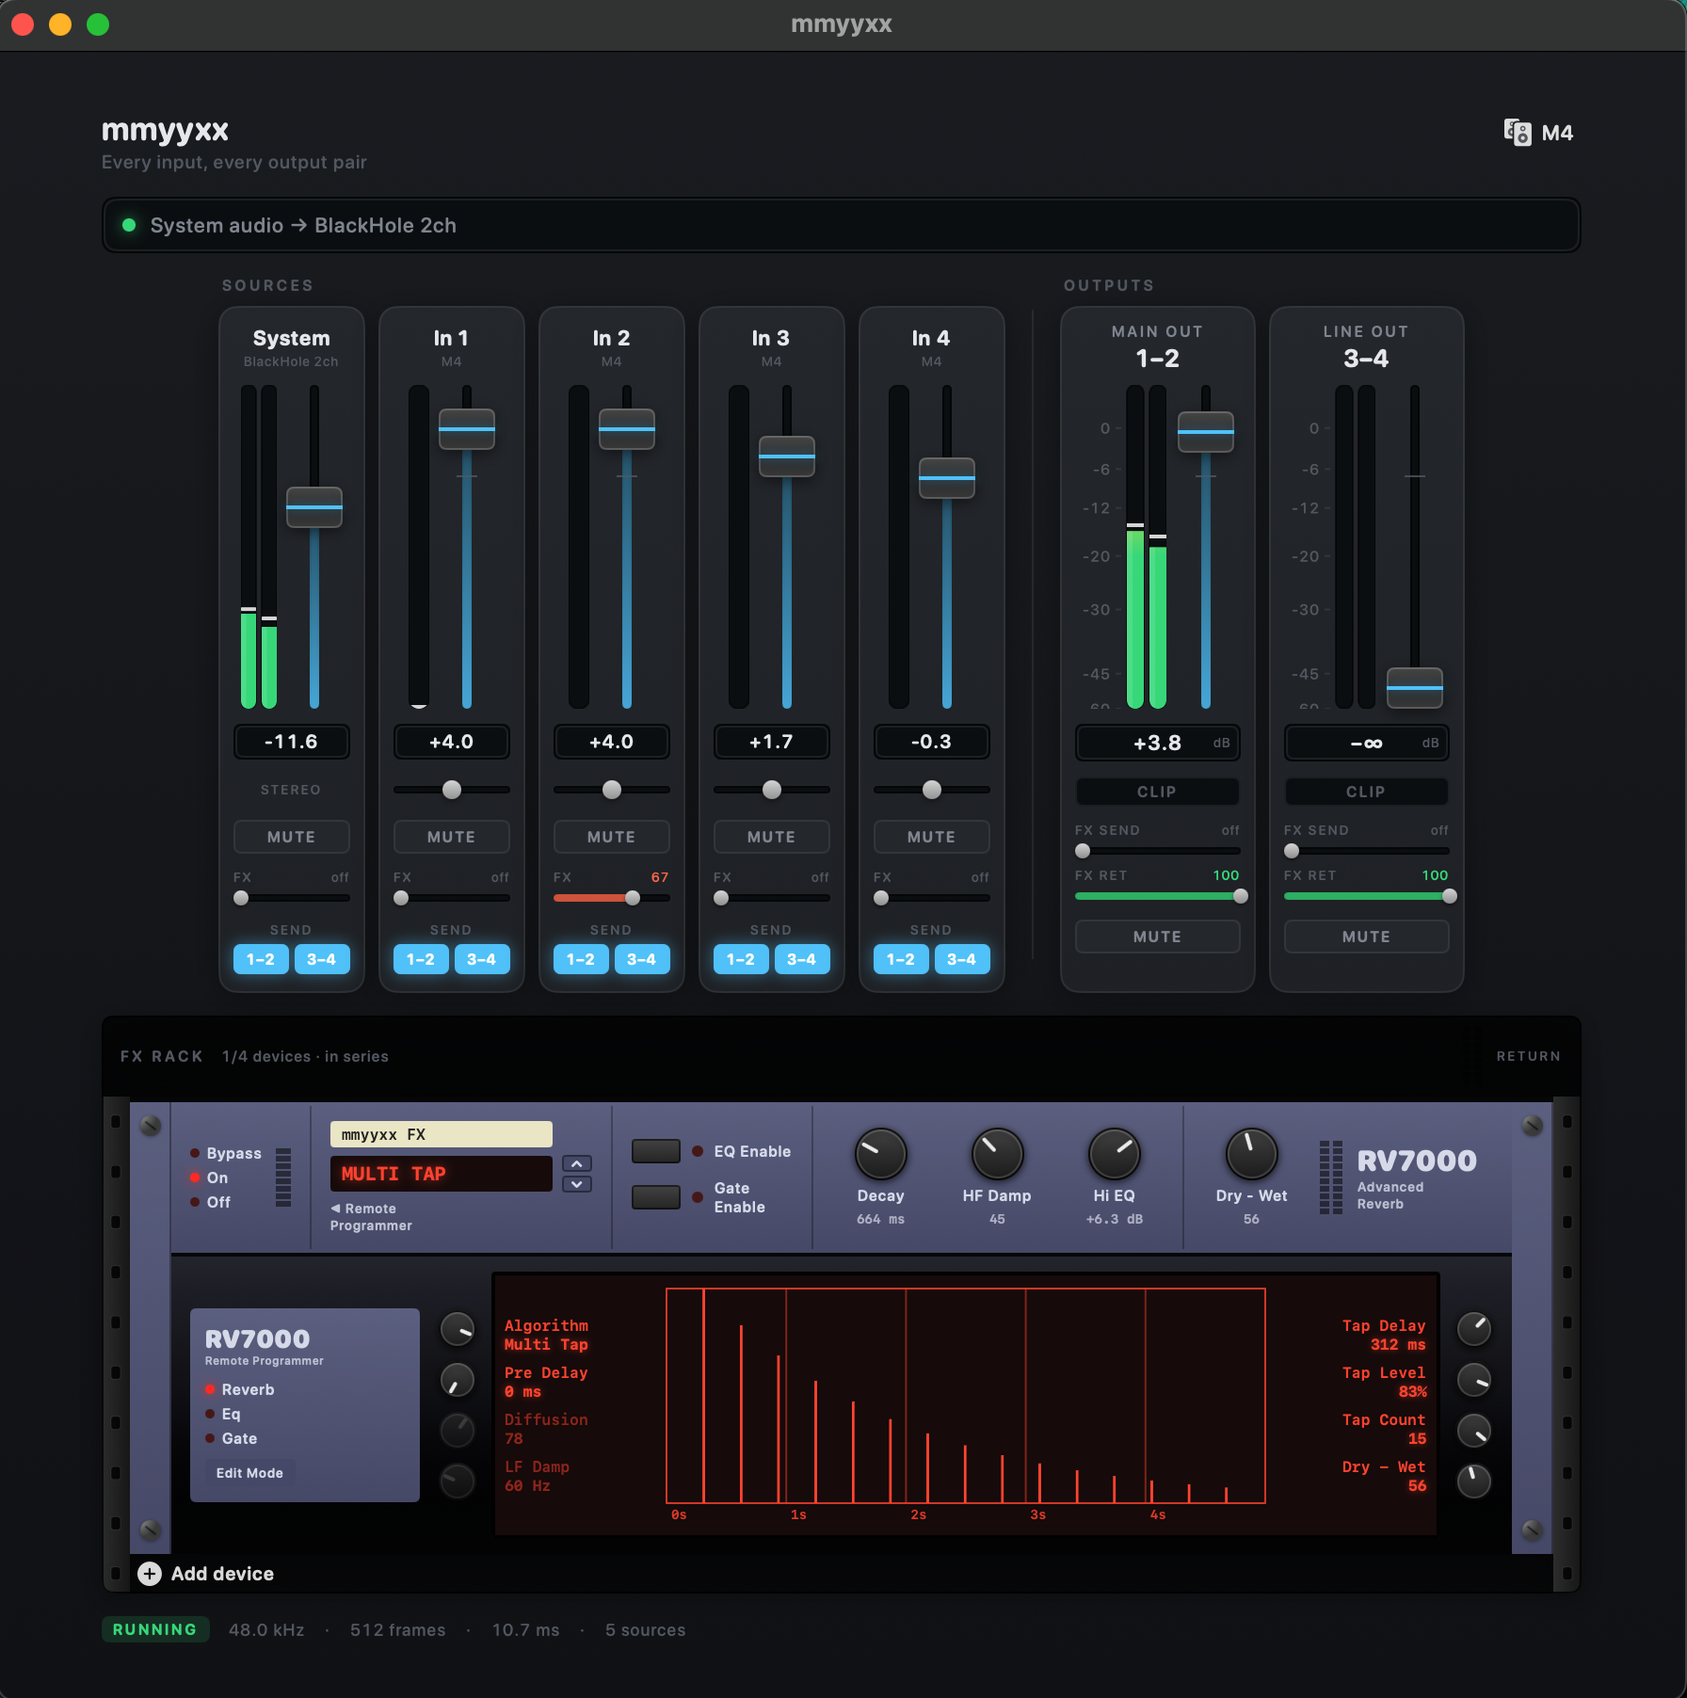
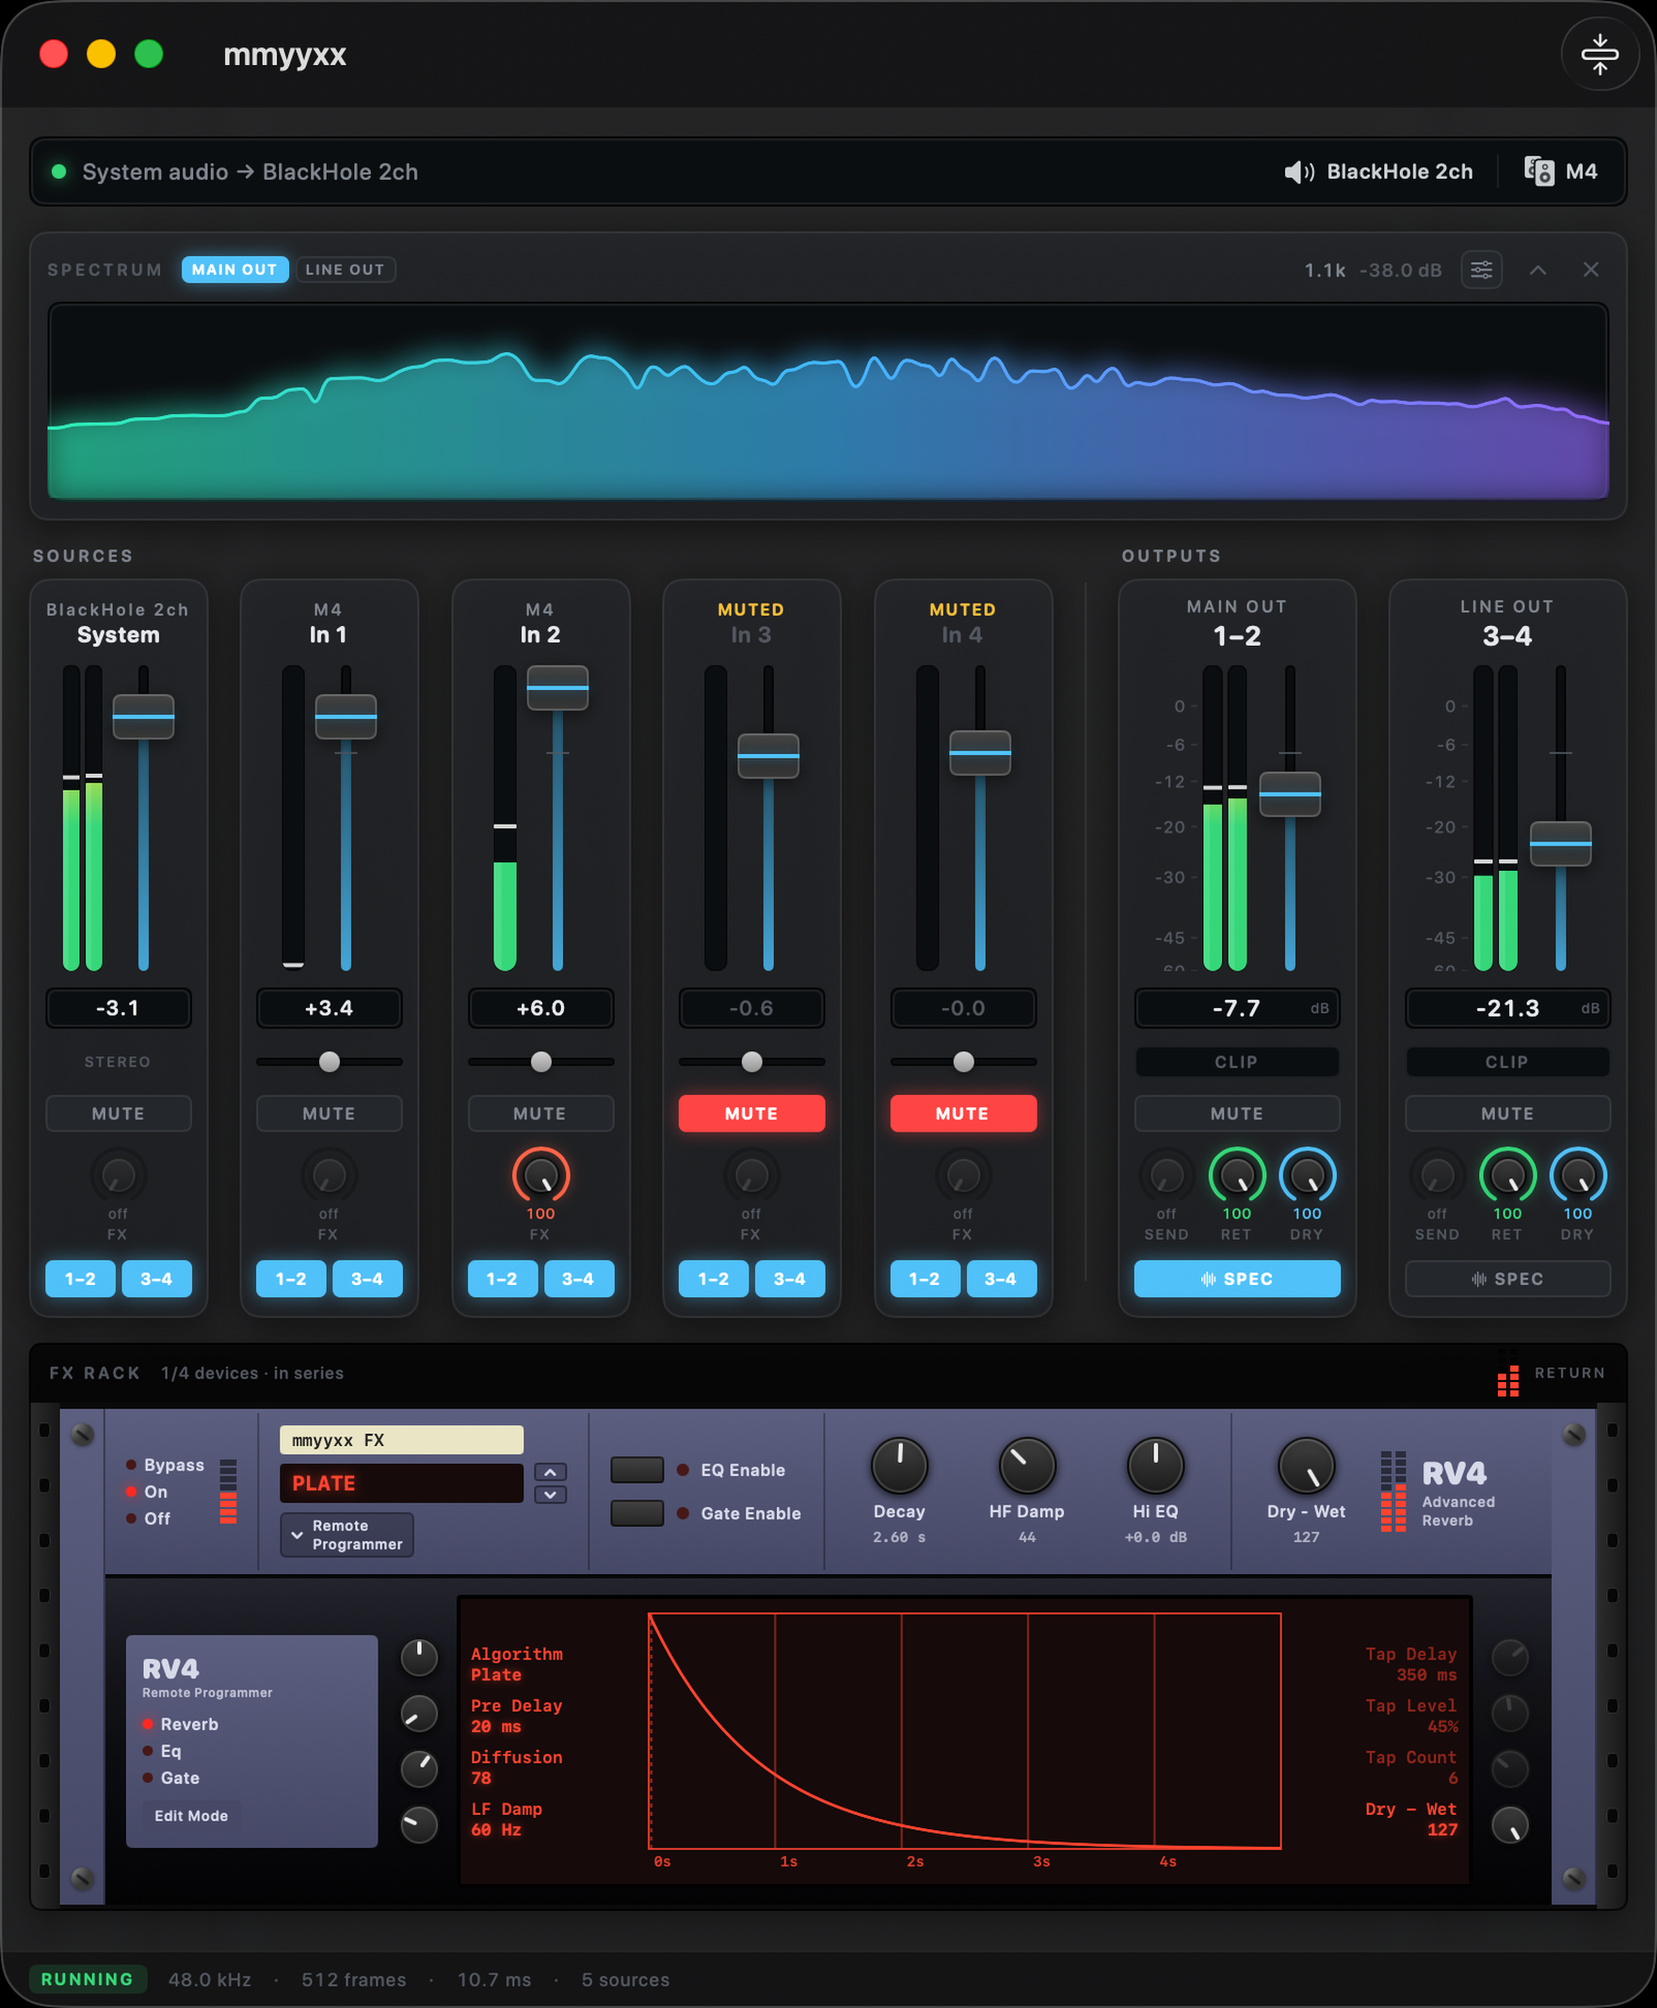
Bring the README up to the app as it stands
It still described an app with one reverb in the rack, an ad-hoc signature
and a quarantine flag to strip by hand, and it called the reverb RV7000.

Documents the analyser in both its forms, the EQ, the safety mute and the
interface mute the engine now claims, the DRY control and what it is for,
the output picker, and the packaging path from a Developer ID through
notarisation to a stapled disk image. The screenshot is retaken with the
analyser open.

The channel-offset trap that caused the reconnect feedback loop is written
down beside the other things that bite, since it is the kind of thing that
looks like a hardware fault rather than a layout bug.

Claude-Session: https://claude.ai/code/session_01CKWtTZLDbHARm1nDuWcKvr

diff --git a/README.md b/README.md
@@ -8,11 +8,10 @@ and each strip can be sent to either output pair independently.
 Built for a MOTU M4 (Main Out 1–2, Line Out 3–4, four analog inputs), but any
 interface with four or more outputs appears in the device menu.
 
-<img src="docs/mmyyxx.png" alt="mmyyxx: five source strips and two output pairs above a 19-inch FX rack holding an RV7000 reverb" width="880">
+<img src="docs/mmyyxx.png" alt="mmyyxx: a spectrum analyser over five source strips and two output pairs, above a 19-inch FX rack holding an RV4 reverb" width="880">
 
-Five input strips feed two output pairs, and both can send to the rack below.
-The RV7000 here is running Multi Tap, which is why the display is drawing 15
-discrete taps rather than a decay envelope.
+A spectrum analyser across the top, five input strips feeding two output pairs,
+and a rack below that either can send to. The RV4 here is running Plate.
 
 ## Why this is needed
 
@@ -49,11 +48,11 @@ In 1–4 at 0–3 and system audio at 8–9.
 
 ```
 sources ──(fx send, post-fader)──┐
-                                 ├──▶ FX bus ──▶ RV7000 ──▶ return ──┐
-pair bus ──(fx send)─────────────┘        (tapped pre-return)        │
-    │                                                                │
-    └────────────────────────────────┬───────────────────────────────┘
-                                     └──▶ pair fader ──▶ output
+                                 ├──▶ FX bus ──▶ rack ──▶ return ──┐
+pair bus ──(fx send)─────────────┘      (tapped pre-return)        │
+    │                                                              │
+    └──(dry)──────────────────────────┬───────────────────────────-┘
+                                      └──▶ pair fader ──▶ output
 ```
 
 The render callback runs in passes:
@@ -64,10 +63,17 @@ The render callback runs in passes:
 2. Each output pair can also feed the FX bus. That tap happens **before** the
    return is summed back in, which is what stops a pair that both sends to and
    receives from the reverb from closing a feedback loop.
-3. Each output pair applies its master fader and meters **post-fader**, so the
-   output strips show what is actually leaving the interface.
+3. Each output pair scales its own signal by its **DRY** amount, sums the return,
+   applies its master fader and meters **post-fader**, so the output strips show
+   what is actually leaving the interface.
 
 FX sends default to zero, so nothing is heard until a send is raised.
+
+DRY defaults to full, which makes the rack a parallel send: right for a reverb,
+wrong for an EQ, since half the signal would bypass it and an EQ move would land
+at half strength. Take DRY to zero with the send up and the rack becomes an
+insert on that output instead. The dry path is only thinned when something is
+actually coming back, so a bypassed rack cannot silence an output.
 
 Gain smoothing advances once per frame regardless of how many pairs a source
 feeds, so slew rate does not depend on routing.
@@ -83,6 +89,17 @@ fader moves slew over ~20 ms so they do not zipper.
 sending to the interface, which is exactly what this app writes, so routing one
 into the mix would close a feedback loop. Sources whose driver-supplied channel
 name contains "loopback" are filtered out.
+
+**A reconnecting interface can hand back a short channel layout.** An interface
+that has just enumerated over USB will advertise four outputs while contributing
+fewer channels to the aggregate. Every channel index after the short sub-device
+shifts, which puts what the app calls Main Out on the loopback device's outputs
+instead — and that comes straight back in as system audio and rings.
+
+The engine refuses to start until the interface contributes its full channel
+count, retrying while it settles, and the render callback never writes outside
+the interface's own range. The safety mute covers the same window from the other
+side by holding the outputs silent until playback is real.
 
 **Output volume is claimed and held at unity.** Interfaces typically expose a
 software volume control only on their "preferred stereo pair", because that is
@@ -140,6 +157,10 @@ above its original level, so it cannot clip.
 Hold Option-Shift with the volume keys for quarter steps if you want finer
 control still.
 
+The interface's per-channel **mute** is claimed the same way and restored on
+exit, for the same reason: the M4 carries one only on channels 1–2, so a mute
+from the keyboard leaves that pair dead while 3–4 keep playing.
+
 > A force-quit still leaves the controls at unity until the next clean exit, but
 > the levels to restore survive it.
 
@@ -154,20 +175,14 @@ reboot.
 
 ## Install
 
-A built app is attached to each [release](https://github.com/sqratchsix/mmyyxx-audio-router/releases).
-It is **Apple silicon only** and **ad-hoc signed**, not notarized, so macOS
-quarantines it on download and refuses to open it with a double-click. Strip the
-quarantine flag after unzipping:
+A signed disk image is at **[xselement.com/downloads/mmyyxx.dmg](https://xselement.com/downloads/mmyyxx.dmg)**,
+and is attached to each [release](https://github.com/sqratchsix/mmyyxx-audio-router/releases).
+It is **Apple silicon only**. The image and the app inside it are signed with a
+Developer ID, notarized, and the ticket is stapled to the image, so it opens on a
+machine that has never seen it and works offline. Drag it to Applications and
+double-click; there is no quarantine dance.
 
-```sh
-xattr -dr com.apple.quarantine /Applications/mmyyxx.app
-open /Applications/mmyyxx.app
-```
-
-Right-click the app and choose **Open** works too. Notarizing properly needs a
-paid Apple Developer ID, which this project does not have.
-
-BlackHole has to be installed separately, see Requirements below. The app detects
+BlackHole has to be installed separately, see Requirements above. The app detects
 when it is missing and shows the command.
 
 ## Build and run
@@ -177,8 +192,28 @@ when it is missing and shows the command.
 open build/mmyyxx.app
 ```
 
-`./build.sh debug` for a debug build. The bundle is ad-hoc signed so macOS
-remembers the audio-input permission between launches.
+`./build.sh debug` for a debug build.
+
+The bundle is signed so macOS remembers the audio-input permission between
+launches. A Developer ID Application identity is used when one is installed,
+otherwise the signature is ad-hoc, which is enough locally but cannot travel.
+Override with `MMYYXX_SIGN_IDENTITY`, or set it to `-` to force ad-hoc.
+
+```sh
+./build.sh release --dmg        # also package build/mmyyxx-<version>.dmg
+./build.sh release --notarize   # ...and notarize it, then staple the ticket
+```
+
+Notarizing needs credentials stored once, with the profile named `mmyyxx`
+(or set `MMYYXX_NOTARY_PROFILE`):
+
+```sh
+xcrun notarytool store-credentials mmyyxx --apple-id <id> --team-id <team>
+```
+
+The disk image keeps one stable name so published links keep working, and takes
+its version from `CFBundleShortVersionString`. Bump that in `Bundle/Info.plist`
+before packaging a new release.
 
 There is no Xcode project file. The package builds with Command Line Tools alone;
 Xcode 16.4 can open `Package.swift` directly if you want previews and Instruments.
@@ -203,6 +238,26 @@ The icon is generated rather than checked in as an opaque asset:
 Hardware inputs start muted and at −∞, so plugging in a live microphone never
 surprises anyone through the speakers. Unmute and raise the fader to use one.
 
+The output device can be chosen from the bar at the top of the window, so
+switching what macOS is playing through does not mean a trip to System Settings.
+
+### The safety mute
+
+The outputs are held silent when the engine starts and open when system audio is
+genuinely playing, which is what the amber **Held silent** pill in the bar means.
+**Open now** releases it by hand, and the device menu has a switch to turn the
+behaviour off.
+
+It exists because an interface that has just been plugged back in can carry a
+channel layout that is briefly wrong, and an open microphone plus a wrong layout
+is a feedback loop through the monitors. The hold covers that window.
+
+The engine also clears the interface's own per-channel mute while it runs and
+puts it back on exit. Muting from the keyboard while the interface is the system
+output leaves its preferred pair dead and the others playing — from inside the
+app that looks like a broken output rather than a muted one, with faders moving,
+meters reading level and nothing coming out.
+
 ## Controls
 
 | Control | Behaviour |
@@ -211,6 +266,9 @@ surprises anyone through the speakers. Unmute and raise the fader to use one.
 | Pan | Constant-power, with a centre detent. Mono sources only. Double-click recentres. |
 | SEND 1–2 / 3–4 | Which output pairs this source feeds. |
 | MUTE | Per source and per output pair. |
+| FX | Post-fader send into the rack, so muting a channel takes its reverb with it. |
+| SEND / RET / DRY | Per output pair: level into the rack, level back, and how much of the pair's own signal survives alongside it. |
+| SPEC | Sends this pair to the analyser above the sources. |
 | CLIP | Latches while a pair's post-fader peak hold sits at 0 dBFS. |
 
 ## The rack
@@ -221,15 +279,19 @@ never stretch, so a 1U panel stays 1U at any window size.
 
 | Device | Height | |
 |---|---|---|
-| RV7000 Advanced Reverb | 3U | main panel plus Remote Programmer |
+| RV4 Advanced Reverb | 3U, folds to 1U | main panel plus Remote Programmer |
 | DL1 Delay Line | 1U | stereo delay, damped feedback, ping-pong |
+| EQ5 Parametric EQ | 3U, folds to 1U | five bands, presets, response curve |
+| SA1 Spectrum Analyser | 3U, folds to 1U | reads the bus where it is mounted |
 
 Each device is fastened by full-height mounting ears with a screw top and bottom,
 and the rack is exactly as tall as what is mounted in it. The window's minimum
 width is the rack's, because a 19-inch rack that has to squeeze is not a 19-inch
 rack; below that the window scrolls rather than clipping.
 
-Hover a device for its power, reorder and remove controls. Each slot owns both a
+Hover a device for its power, reorder and remove controls, and hover the rack's
+header for **Add device**. A collapsible device folds to 1U with the button under
+its name, which is how four devices fit on a screen at once. Each slot owns both a
 reverb and a delay from the moment the app starts: adding a device at runtime
 must never make the audio thread allocate a delay line, so the units are pooled
 and a slot simply uses whichever its current kind calls for. Changing a slot's
@@ -240,10 +302,48 @@ It is a fixed-capacity plain-old-data struct, so copying it is a memcpy; an arra
 would retain and release a heap buffer, and dropping the last reference would
 call `free` on the audio thread.
 
+## The analyser
+
+A spectrum analyser appears twice, from one piece of DSP.
+
+Above the sources is a panel fed by the **SPEC** buttons on the output strips:
+what it draws is the post-fader mono sum of whichever pairs are sending, which is
+what the speakers are actually getting. Double-click its header to fold it to a
+single line with the trace still running.
+
+In the rack, **SA1** is an insert like anything else in the chain and reads the
+FX bus *where it is mounted*: ahead of the RV4 it shows the dry send, behind it
+the tail. Two of them read their own points in the chain.
+
+The render thread writes into a lock-free ring and the FFT runs on the UI thread,
+Hann-windowed, so the audio thread never does a transform. Calibration was
+checked against synthesised sines: a full-scale tone reads 0 dBFS within the
+scalloping loss a Hann window costs. Tilt is applied to signal only — adding it
+to the silence floor lifts digital silence into view as a phantom ramp climbing
+toward 20 kHz.
+
+Everything about it is adjustable: FFT size, band count, attack and release,
+tilt, floor and ceiling, refresh rate, peak hold, and five drawing styles across
+six palettes.
+
+## The EQ
+
+**EQ5** is five bands — low shelf, three bells, high shelf — with presets that
+write the bands and then get out of the way. Move any control afterwards and the
+preset reads *Custom*; **Reset bands** returns it to flat.
+
+The response curve is drawn from the same biquad coefficients the audio runs
+through rather than an approximation of them, so what is on screen is the filter.
+Folded to 1U the curve scales itself to what the EQ is doing, since a working
+±5 dB move on a fixed ±18 dB scale is a straight line.
+
+Coefficients are rebuilt only when a value actually moves, which keeps the
+trigonometry off the per-buffer path while a curve sits still.
+
 ## The reverb
 
-Modelled on Reason's RV7000: a main panel with the headline controls and a
-Remote Programmer below carrying the rest on a red LCD.
+**RV4** is modelled on Reason's RV7000: a main panel with the headline controls
+and a Remote Programmer below carrying the rest on a red LCD.
 
 Six of the algorithms are a feedback delay network — eight delay lines with
 mutually non-harmonic lengths, a four-stage allpass diffuser on the input, and a
@@ -315,9 +415,9 @@ The device menu has **Reset mix to defaults** and **Reveal settings file**.
 ## Layout
 
 ```
-Sources/Audio/   CoreAudio layer: device discovery, aggregate device, mixer callback, level math
-Sources/UI/      SwiftUI views: meters, faders, channel strips, theme
-Sources/App/     App entry point and the observable model bridging UI to engine
+Sources/Audio/   CoreAudio layer: device discovery, aggregate device, mixer callback, DSP, level math
+Sources/UI/      SwiftUI views: meters, faders, channel strips, rack devices, theme
+Sources/App/     App entry point, the observable model bridging UI to engine, and the analyser
 Bundle/          Info.plist and entitlements consumed by build.sh
 Tools/           Icon generator
 ```
@@ -329,8 +429,11 @@ with gain, pan, mute and per-pair sends; two output pairs with master faders,
 mutes and clip indicators; peak metering with hold throughout; device selection;
 system-output routing with restore on quit.
 
-Also working: the full mix persists across launches and across device
-reconnects.
+Also working: a rack of up to four devices in series — reverb, delay, EQ and
+analyser — with each output pair able to run it as a send or as an insert; a
+spectrum analyser both above the mix and in the rack; the output device chosen
+from the window; and a safety mute that holds the outputs down until playback is
+real. The full mix persists across launches and across device reconnects.
 
 Not done yet: buffer size is whatever the aggregate negotiates rather than
 something the app sets. There is no menu bar item, so the window is the only
